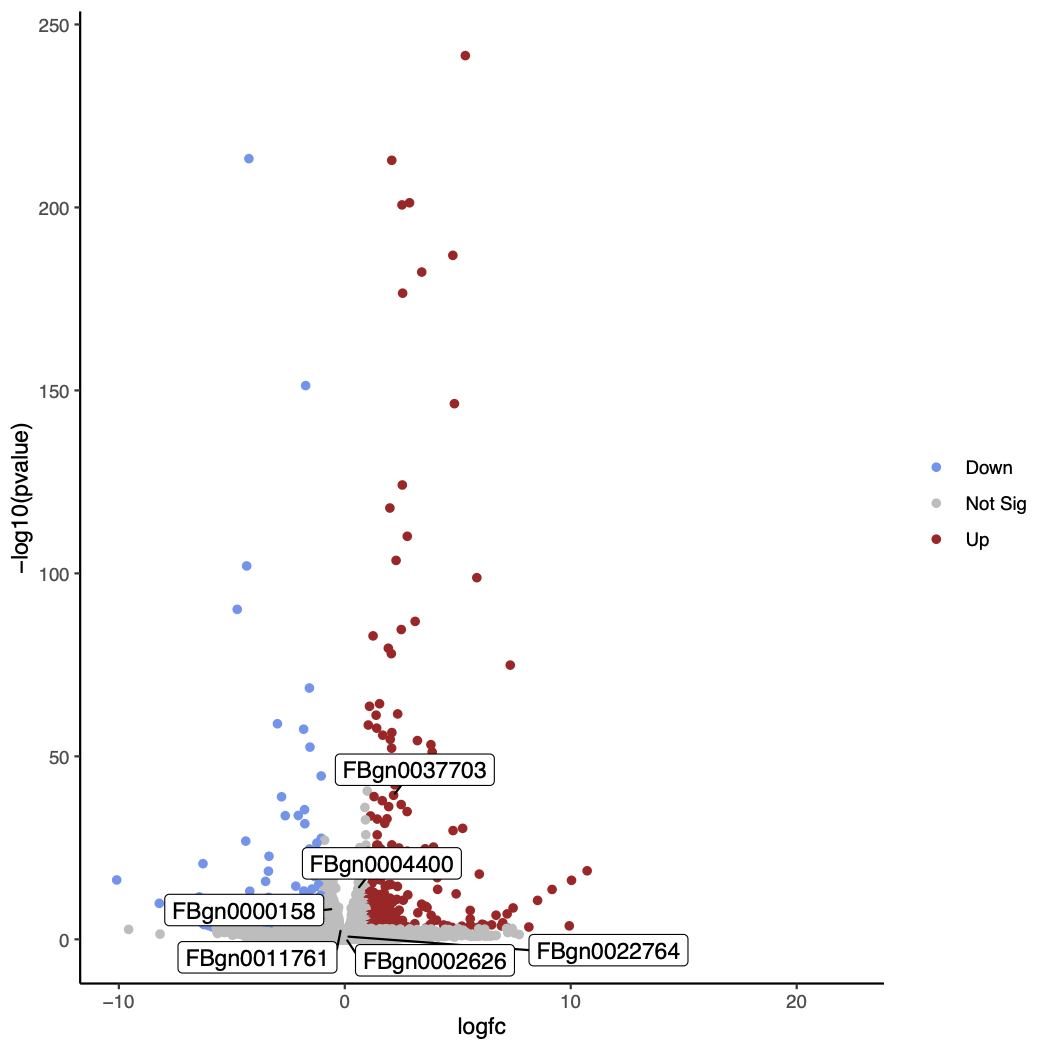
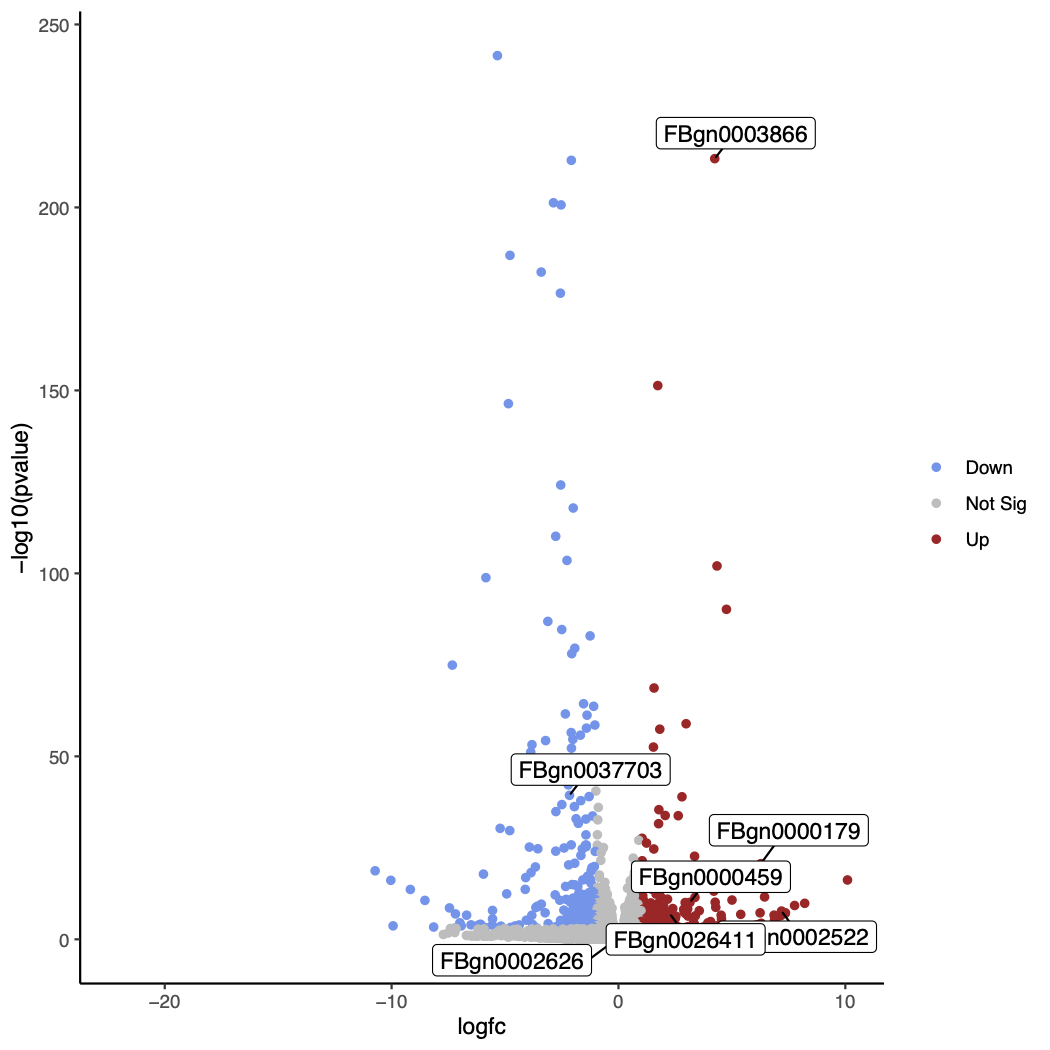
Documentation update

diff --git a/docs/ressources.md b/docs/ressources.md
@@ -60,6 +60,25 @@ https://psilo.sorbonne-universite.fr/index.php/s/Kdm3_RNAseqData/download?path=%
 
 Vous pouvez visualiser les amorces que vous avez utilisé lors de vos quantifications par qPCR dans IGV en téléchargeant le fichier [PCRprimers.gff](ressources/PCRprimers.gff).
 
+--------------------------------------------------------------------------------
+## ChIP-seq
+
+L'occupation de H3K9me2, H3K9me3 et Rhino (Rhi) a été déterminée par immunoprécipitation de la chromatine suivie de séquençage (ChIP-seq) à partir d'ovaires WT et d'ovaires Kdm3 GLKD.
+Les fichiers de couverture ci-dessous ont été obtenus à l'aide de l'outil [BamCompare](https://deeptools.readthedocs.io/en/develop/content/tools/bamCompare.html) (Deeptools Galaxy version 3.3.2.0.0)  avec une taille de bin de 100 pb et le calcul de la différence des lectures IP input en rpm.
+
+```
+H3K9me2
+https://psilo.sorbonne-universite.fr/index.php/s/Kdm3_ChIPseq/download?path=%2F&files=ChIPseq_H3K9me2_Ctrl.bigwig
+https://psilo.sorbonne-universite.fr/index.php/s/Kdm3_ChIPseq/download?path=%2F&files=ChIPseq_H3K9me2_Kdm3GLKD.bigwig
+H3K9me3
+https://psilo.sorbonne-universite.fr/index.php/s/Kdm3_ChIPseq/download?path=%2F&files=ChIPseq_H3K9me3_Ctrl.bigwig
+https://psilo.sorbonne-universite.fr/index.php/s/Kdm3_ChIPseq/download?path=%2F&files=ChIPseq_H3K9me3_Kdm3GLKD.bigwig
+https://psilo.sorbonne-universite.fr/index.php/s/Kdm3_ChIPseq/download?path=%2F&
+Rhino
+files=ChIPseq_Rhino_Ctrl.bigwig
+https://psilo.sorbonne-universite.fr/index.php/s/Kdm3_ChIPseq/download?path=%2F&files=ChIPseq_Rhino_Kdm3GLKD.bigwig
+```
+
 
 --------------------------------------------------------------------------------
 ## Locus de piRNA

diff --git a/docs/rnaseq.md b/docs/rnaseq.md
@@ -163,17 +163,18 @@ Un [tutoriel](https://training.galaxyproject.org/training-material/topics/transc
 
 Par exemple voici comment visualiser sur le volcano plot la liste des gènes cibles des amorces que vous avez utilisés en qPCR.
 
-Comme vous l'avez fait pour [la liste des chromosomes de la drosophile](https://artbio.github.io/startbio/AnalyseGenomes_2023/Preparing_reference/#a-simplify-fasta-headers), créez la liste des noms de gènes cibles de vos amorces de qPRC dans votre historique Galaxy. Appelez la "cibles_pcr". **Indiquez "tabular" pour type de données.**
+Comme vous l'avez fait pour [la liste des chromosomes de la drosophile](https://artbio.github.io/startbio/AnalyseGenomes_2023/Preparing_reference/#a-simplify-fasta-headers), créez la liste des noms de gènes cibles de vos amorces de qPRC dans votre historique Galaxy. Appelez la "Cibles PCR". **Indiquez "tabular" pour type de données.**
 
 Voici la liste des gènes
 ```
-Gene identifier
-FBgn0011761
-FBgn0004400
-FBgn0037703
-FBgn0000158
+FlyBase ID
+FBgn0000179
+FBgn0000459
+FBgn0002522
+FBgn0026411
+FBgn0003866
 FBgn0002626
-FBgn0022764
+FBgn0037703
 ```
 
 Relancez l'outil ***Volcano Plot*** avec les réglages ci-dessous.
